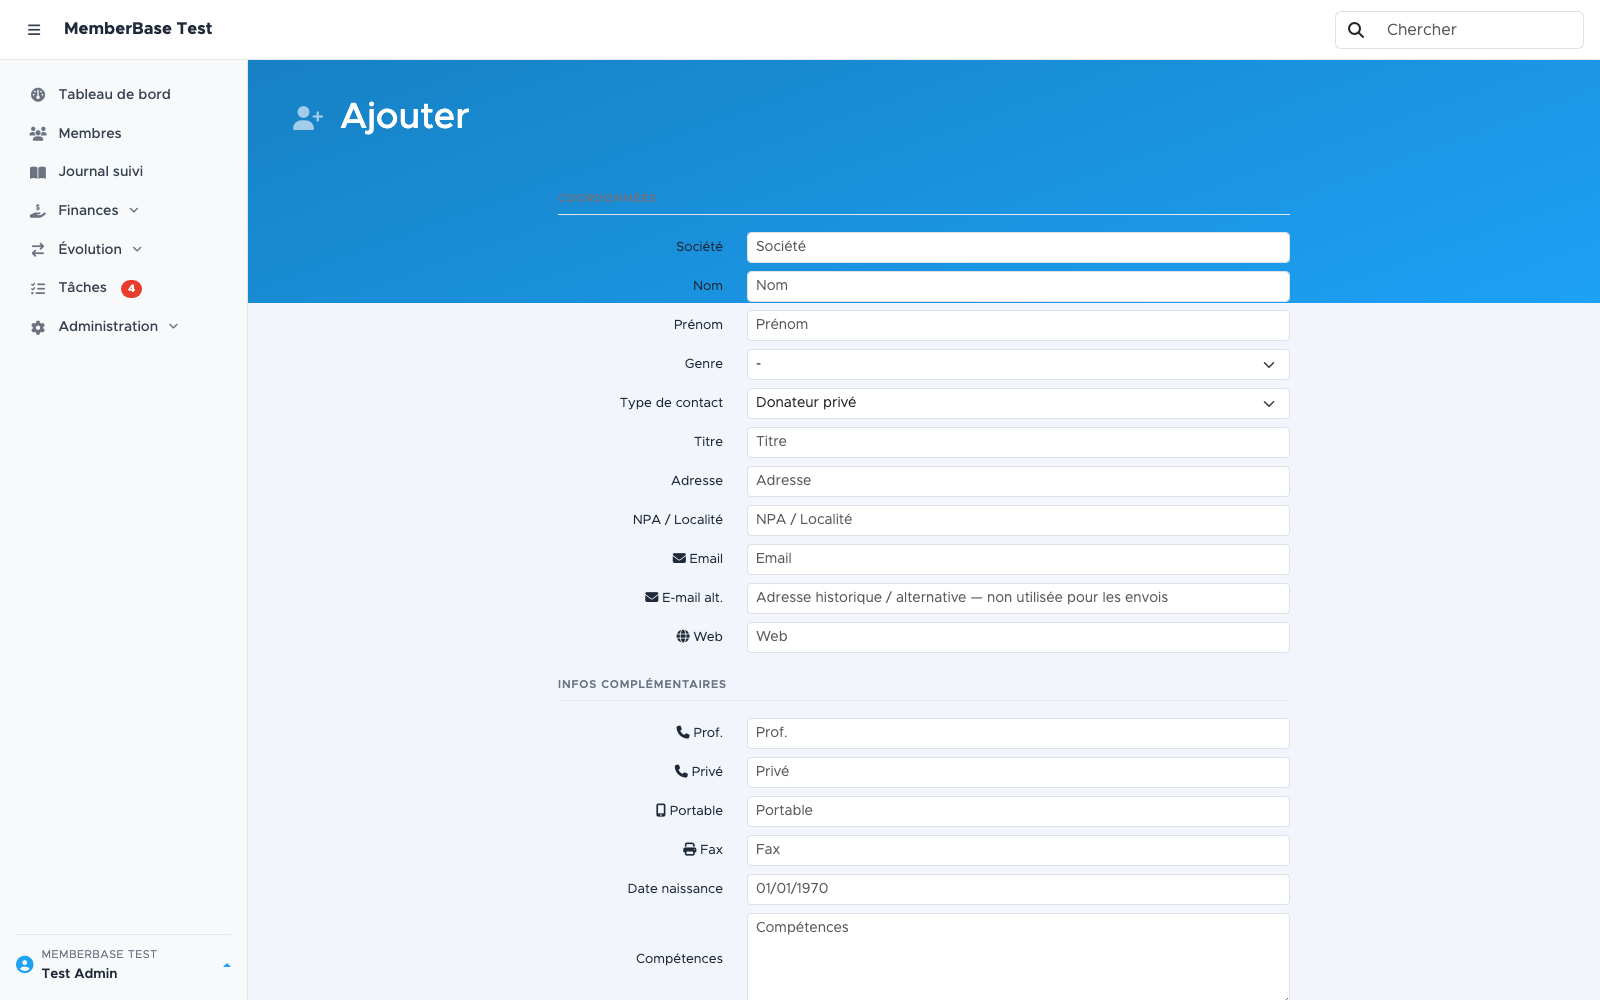
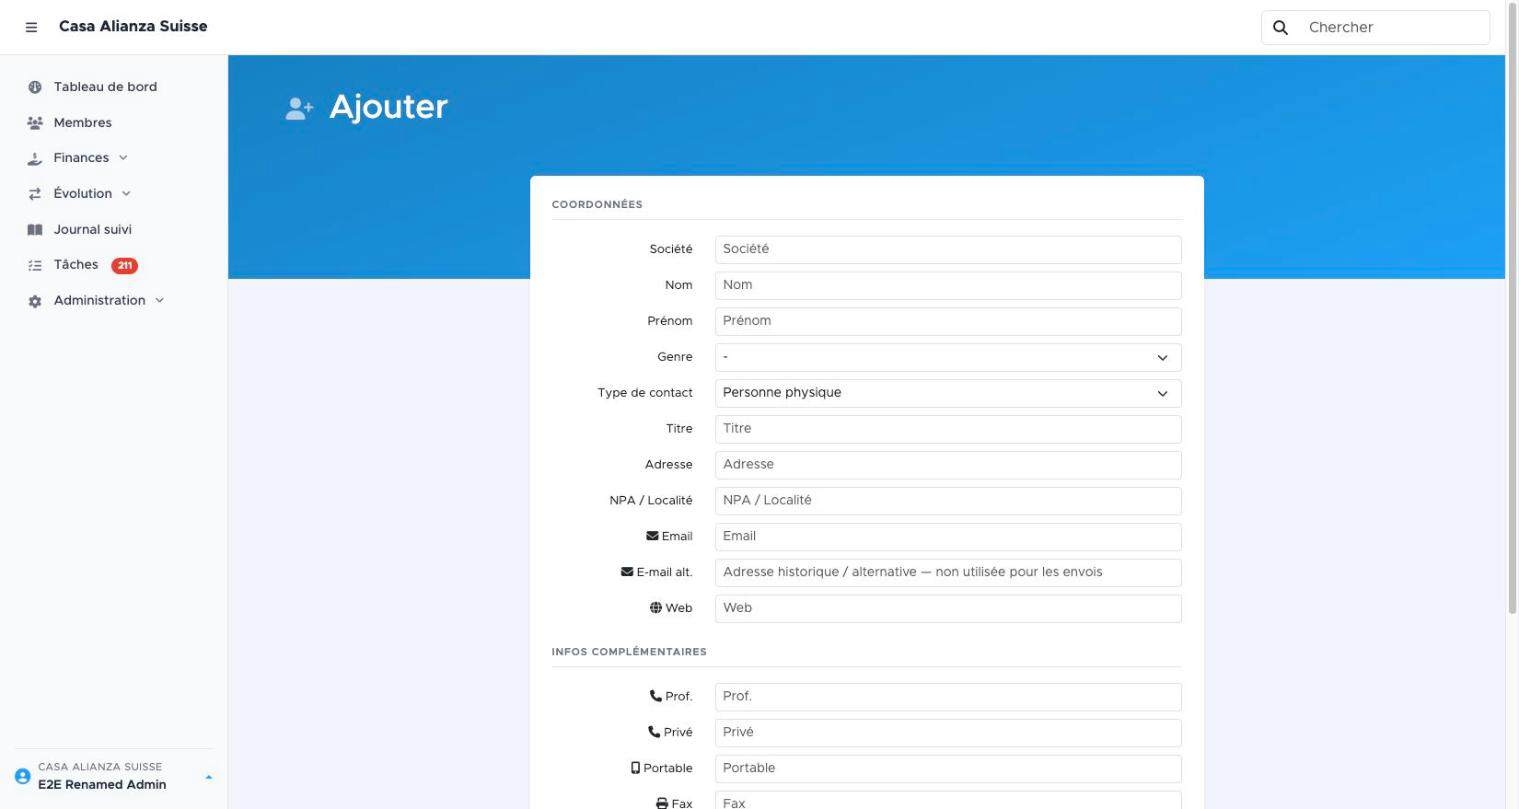
docs: recapture ajouter-membre.png (habillage carte), doc contrôle cotisants désynchronisés

Changed region(s): [[0.0, 0.0, 1.0, 1.0], [0.0, 0.9271, 0.1238, 0.9889], [0.4022, 0.4017, 0.4332, 0.4326]]

diff --git a/docs/admin.html b/docs/admin.html
@@ -786,12 +786,14 @@ défaut et chargent leur détail au clic (lazy-load).</p>
 <tr><td>Email alternatif malformé</td><td>Avertissement</td><td>Pas de <code>@</code> dans <code>email_alt</code></td></tr>
 <tr><td>Genre invalide</td><td>Avertissement</td><td><code>sexe</code> hors <code>na</code>/<code>hf</code>/<code>f</code>/<code>m</code></td></tr>
 <tr><td>Date de naissance future</td><td>Avertissement</td><td><code>birthday</code> postérieure à aujourd&#39;hui</td></tr>
-<tr><td>Règles d&#39;auto-assignation non appliquées</td><td>Avertissement</td><td>Membre dans le segment source d&#39;une règle mais absent du segment cible — assignation antérieure à la règle, ou import ayant contourné l&#39;assignation individuelle</td></tr></tbody></table></div>
+<tr><td>Règles d&#39;auto-assignation non appliquées</td><td>Avertissement</td><td>Membre dans le segment source d&#39;une règle mais absent du segment cible — assignation antérieure à la règle, ou import ayant contourné l&#39;assignation individuelle</td></tr>
+<tr><td>Cotisants absents du segment de leur année</td><td>Avertissement</td><td>Membre ayant payé une cotisation pour l&#39;année AAAA mais absent du segment « Membre AAAA » — import/rattrapage antérieur au hook de rollover, ou retrait manuel depuis. Limité aux 3 dernières années</td></tr></tbody></table></div>
 <h3 id="actions-disponibles">Actions disponibles<a class="anchor" href="#actions-disponibles" aria-label="Lien d'ancrage">#</a></h3>
 <ul>
 <li><strong>Doublons de nom/email</strong> : liens directs vers les fiches membres concernées. Pour deux doublons, un bouton <strong>Fusionner</strong> apparaît (vue <code>mergeUsers</code>).</li>
 <li><strong>Groupes masqués</strong> : lien <strong>Éditer</strong> vers la page de configuration du segment combiné ou de la catégorie pour retirer l&#39;assignation.</li>
 <li><strong>Règles d&#39;auto-assignation non appliquées</strong> : bouton <strong>Appliquer</strong> par ligne, ajoute directement le membre au segment cible manquant.</li>
+<li><strong>Cotisants absents du segment de leur année</strong> : bouton <strong>Appliquer</strong> par ligne, ajoute directement le membre au segment « Membre AAAA » correspondant.</li>
 </ul>
 <h3 id="quand-lutiliser">Quand l&#39;utiliser<a class="anchor" href="#quand-lutiliser" aria-label="Lien d'ancrage">#</a></h3>
 <ul>